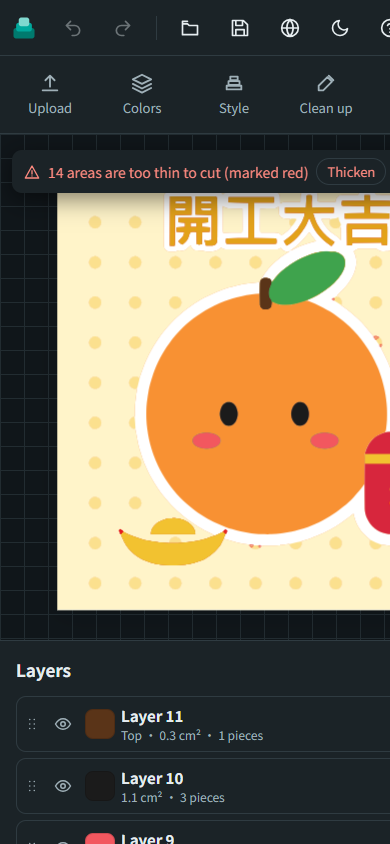
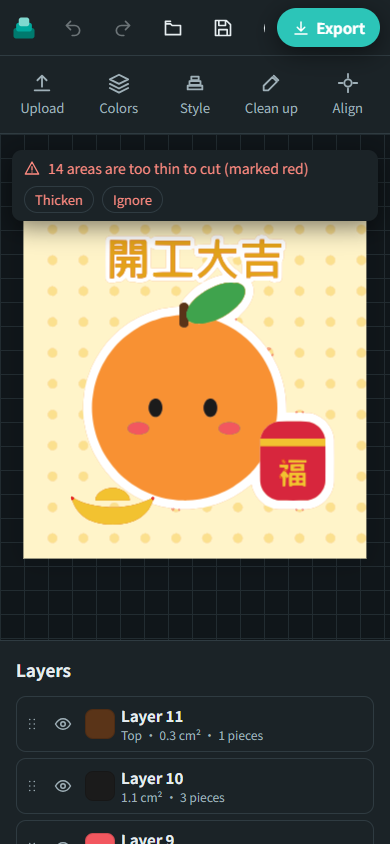
Merge export entry points into the top-right "Export" button; fix mobile width
- Top-right button renamed from "Make It" to "Export" (download icon); export tool removed from the left toolbar
- Export dialog title and tour step renamed accordingly
- Mobile: grid column no longer stretches past the screen; Export button stays visible, other top actions scroll

diff --git a/src/i18n/en.ts b/src/i18n/en.ts
@@ -2,7 +2,7 @@ import type { Dict } from './zh-TW';
 
 export const en: Dict = {
   appName: 'Paper Layer Tool',
-  undo: 'Undo', redo: 'Redo', makeIt: 'Make It',
+  undo: 'Undo', redo: 'Redo', makeIt: 'Export',
   save: 'Save', open: 'Open', newImage: 'New image', theme: 'Theme', language: '繁體中文',
   dropTitle: 'Drop an image here, or click to upload',
   dropHint: 'PNG / JPG / WebP / SVG — you can also paste with Ctrl+V',
@@ -10,7 +10,7 @@ export const en: Dict = {
   useSample: 'Try the sample image',
   tourSampleHint: 'No image yet? Walk through the whole flow with the built-in sample.',
   privacy: 'Your image is processed only in this browser and never uploaded.',
-  tUpload: 'Upload', tLayers: 'Colors', tClean: 'Clean up', tStack: 'Style', tRegister: 'Align', tExport: 'Export',
+  tUpload: 'Upload', tLayers: 'Colors', tClean: 'Clean up', tStack: 'Style', tRegister: 'Align',
   pLayers: 'Colors', pLayersSub: 'Set the finished size and how many colors to split into. Each color is one sheet of paper — one layer.',
   width: 'Finished width', widthHelp: 'Real size of the finished piece; all mm settings depend on it',
   k: 'Layers', kHelp: 'More layers = more detail, but more paper to cut', auto: 'Auto', autoOn: 'Suggested',
@@ -78,7 +78,7 @@ export const en: Dict = {
   wLoad: 'Could not read this file. Please use a PNG / JPG / WebP / SVG image.',
   wWorker: 'Processing error: {msg}',
   matNote: 'Actual cut area depends on your machine; check Design Space.',
-  exportTitle: 'Make It',
+  exportTitle: 'Export',
   modeA: 'Cut only', modeADesc: 'One multi-layer SVG; upload once and Design Space splits it by color (recommended)',
   modeB: 'Print Then Cut', modeBDesc: 'Print first, then cut — high-resolution PNG',
   modeC: 'Guide & preview', modeCDesc: 'Printable PDF instructions and a 3D preview image',
@@ -105,7 +105,7 @@ export const en: Dict = {
   foamTag: 'foam',
   tour1t: '① Upload', tour1: 'Drop or upload an illustration; it is split into color layers automatically.',
   tour2t: '② Adjust a slider or two', tour2: 'On the left, in order: ① Colors (how many) → ② Style (how to stack); ③ Clean up and ④ Align are optional. On the right, recolor, reorder or hide layers.',
-  tour3t: '③ Press “Make It”', tour3: 'Download artwork.svg and upload that one file to Cricut Design Space; it splits into layers by color.',
+  tour3t: '③ Press “Export”', tour3: 'Download artwork.svg and upload that one file to Cricut Design Space; it splits into layers by color.',
   next: 'Next', start: 'I’ll upload my own', neverShow: 'Don’t show again',
   restore: 'Restore your last project?', restoreYes: 'Restore', restoreNo: 'No thanks',
   saved: 'Saved', loadFail: 'Could not read the project file',

diff --git a/src/i18n/zh-TW.ts b/src/i18n/zh-TW.ts
@@ -1,6 +1,6 @@
 export const zhTW = {
   appName: '紙雕分層工具',
-  undo: '復原', redo: '重做', makeIt: '製作 Make It',
+  undo: '復原', redo: '重做', makeIt: '匯出',
   save: '存檔', open: '開啟', newImage: '換圖', theme: '亮/暗', language: 'English',
   // 空狀態
   dropTitle: '把圖片拖到這裡，或點擊上傳',
@@ -10,7 +10,7 @@ export const zhTW = {
   tourSampleHint: '還沒有圖片？先用內建的範例插畫走一次完整流程。',
   privacy: '圖片只在你的瀏覽器裡處理，不會上傳到任何地方。',
   // 工具列
-  tUpload: '上傳', tLayers: '分色', tClean: '清理', tStack: '樣式', tRegister: '對位', tExport: '匯出',
+  tUpload: '上傳', tLayers: '分色', tClean: '清理', tStack: '樣式', tRegister: '對位',
   // 分層面板
   pLayers: '分色', pLayersSub: '決定成品大小，以及要分成幾種顏色。每種顏色就是一張紙、一層。',
   width: '成品寬度', widthHelp: '做好之後的實際寬度，所有 mm 設定都依這個換算',
@@ -86,7 +86,7 @@ export const zhTW = {
   wWorker: '處理時發生錯誤：{msg}',
   matNote: '切割範圍以 Design Space 實際顯示為準（依機型可能不同）。',
   // 匯出
-  exportTitle: '製作 Make It',
+  exportTitle: '匯出',
   modeA: '純切割', modeADesc: '一個多圖層 SVG，上傳一次就會依顏色拆成各層（建議）',
   modeB: '列印再切割', modeBDesc: 'Print Then Cut：先印再切，輸出高解析 PNG',
   modeC: '說明書與預覽', modeCDesc: '可列印的 PDF 製作說明書與立體預覽圖',
@@ -115,7 +115,7 @@ export const zhTW = {
   // 導覽
   tour1t: '① 上傳圖片', tour1: '拖曳或點擊上傳一張插畫，工具會自動依顏色分層。',
   tour2t: '② 拖一兩個滑桿', tour2: '左側依序設定：① 分色（分成幾種顏色）→ ② 樣式（怎麼疊起來）；③ 清理、④ 對位可略過。右側可改色、排序、隱藏圖層。',
-  tour3t: '③ 按「製作」', tour3: '下載 artwork.svg，在 Cricut Design Space 上傳這一個檔案，就會依顏色拆成各層。',
+  tour3t: '③ 按「匯出」', tour3: '下載 artwork.svg，在 Cricut Design Space 上傳這一個檔案，就會依顏色拆成各層。',
   next: '下一步', start: '我自己上傳', neverShow: '不再顯示',
   restore: '要還原上次的作品嗎？', restoreYes: '還原', restoreNo: '不用',
   saved: '已存檔', loadFail: '專案檔讀取失敗',

diff --git a/src/app/Sidebar.tsx b/src/app/Sidebar.tsx
@@ -18,19 +18,17 @@ interface Props {
   showThin: boolean;
   setShowThin: (v: boolean) => void;
   onUpload: () => void;
-  onExport: () => void;
   hasImage: boolean;
   thinTotal: number;
 }
 
 /** 依設定的必要性排序：① 分色 ② 樣式 是必做，③ 清理 ④ 對位 可略過 */
-const TOOLS: { id: PanelId | 'upload' | 'export'; icon: string; key: 'tUpload' | 'tLayers' | 'tClean' | 'tStack' | 'tRegister' | 'tExport' }[] = [
+const TOOLS: { id: PanelId | 'upload'; icon: string; key: 'tUpload' | 'tLayers' | 'tClean' | 'tStack' | 'tRegister' }[] = [
   { id: 'upload', icon: 'upload', key: 'tUpload' },
   { id: 'layers', icon: 'layers', key: 'tLayers' },
   { id: 'stack', icon: 'stack', key: 'tStack' },
   { id: 'clean', icon: 'clean', key: 'tClean' },
   { id: 'register', icon: 'target', key: 'tRegister' },
-  { id: 'export', icon: 'download', key: 'tExport' },
 ];
 
 export function Sidebar(props: Props) {
@@ -47,7 +45,6 @@ export function Sidebar(props: Props) {
             disabled={!hasImage && tool.id !== 'upload'}
             onClick={() => {
               if (tool.id === 'upload') props.onUpload();
-              else if (tool.id === 'export') props.onExport();
               else setPanel(panel === tool.id ? null : tool.id);
             }}
           >

diff --git a/src/app/styles.css b/src/app/styles.css
@@ -249,14 +249,17 @@ th { color: var(--text-2); font-weight: 600; font-size: 13px; }
 /* 手機：上下結構 */
 @media (max-width: 760px) {
   .app {
-    grid-template-columns: 1fr;
+    grid-template-columns: minmax(0, 1fr);
     grid-template-rows: 56px auto minmax(320px, 1fr) auto auto;
     grid-template-areas: 'top' 'left' 'center' 'right' 'bottom';
     height: auto; min-height: 100vh; overflow: visible;
   }
   .brand span { display: none; }
   .top { position: sticky; top: 0; z-index: 20; padding: 0 10px; }
-  .top-actions { margin-left: 0; }
+  /* 工具按鈕放不下時可左右捲動，「匯出」按鈕固定在右側一定看得到 */
+  .top-actions { margin-left: 0; min-width: 0; overflow-x: auto; scrollbar-width: none; }
+  .top-actions .sep { display: none; }
+  .btn.make { flex: none; padding: 8px 14px; font-size: 15px; }
   .left { flex-direction: column; border-right: 0; border-bottom: 1px solid var(--border); }
   .toolbar { flex-direction: row; width: 100%; overflow-x: auto; border-right: 0; padding: 6px; }
   .tool { flex: 1 0 60px; }

diff --git a/src/app/App.tsx b/src/app/App.tsx
@@ -246,8 +246,8 @@ export function App() {
             <IconButton icon="help" label="?" onClick={() => setTour(true)} showLabel={false} />
           </div>
           <button type="button" className="btn primary make" disabled={!result} onClick={() => setExportOpen(true)}>
+            <Icon name="download" size={18} />
             <span>{t('makeIt')}</span>
-            <Icon name="play" size={16} />
           </button>
         </header>
 
@@ -261,7 +261,6 @@ export function App() {
           showThin={showThin}
           setShowThin={setShowThin}
           onUpload={() => fileRef.current?.click()}
-          onExport={() => setExportOpen(true)}
           hasImage={!!image}
           thinTotal={thinTotal}
         />

diff --git a/README.md b/README.md
@@ -23,7 +23,7 @@
    | ④ 對位（選用） | 四角對位記號（預設比照 Cricut 的 **L 型角**，也可選圓孔 / 十字）、邊距、大小、層編號 |
 4. 右側圖層面板：顯示 / 隱藏、點色塊改色、雙擊改名、拖曳排序（或選取後 `Alt+↑/↓`）。選取某層時其他層會淡化，並可**覆寫**該層的外擴、鏤空（保留 / 填滿）、泡棉（平貼 / 墊泡棉）與預覽用的泡棉厚度。每項預設跟隨全域設定，改過的項目標示「● 已覆寫」（圖層列表也會出現橘色小圓點），可按「還原為全域」。
 5. 底部切換**平面 / 分層 / 立體**檢視；立體檢視可拖曳旋轉，並調整全域泡棉厚度；只有墊泡棉的層會被墊高。
-6. 按右上角「**製作 Make It**」選擇匯出方式並下載：
+6. 按右上角「**匯出**」選擇匯出方式並下載：
    - **純切割（建議）**：預設下載**單一多圖層 SVG** `artwork.svg`。所有層在同一個檔案、每層一個 `<g id="layer-01">`、填色互不相同、座標原點一致。兩層顏色相同時（例如手動改色），匯出時會自動把後面那層微調 1 個 RGB 值並在面板上警告，避免 Design Space 把它們併成同一層。有墊泡棉的層另外可下載 `foam-pads.svg`（全部墊片一個檔，灰階各差 1）。
    - **備用：每層獨立 SVG**（`layer-01-#E86F3D.svg`…）：可「逐檔下載」或「打包 ZIP 下載」（ZIP 另含 `artwork.svg`、泡棉墊片與紙張清單）。**ZIP 需先解壓縮，Design Space 無法直接上傳 ZIP 或資料夾**：Windows 在 ZIP 上按右鍵 →「全部解壓縮」，Mac 雙擊即可。
    - **列印再切割（Print Then Cut）**：每層與合成圖的 300 DPI PNG（透明背景、四周留白），超過尺寸上限會自動縮小。
